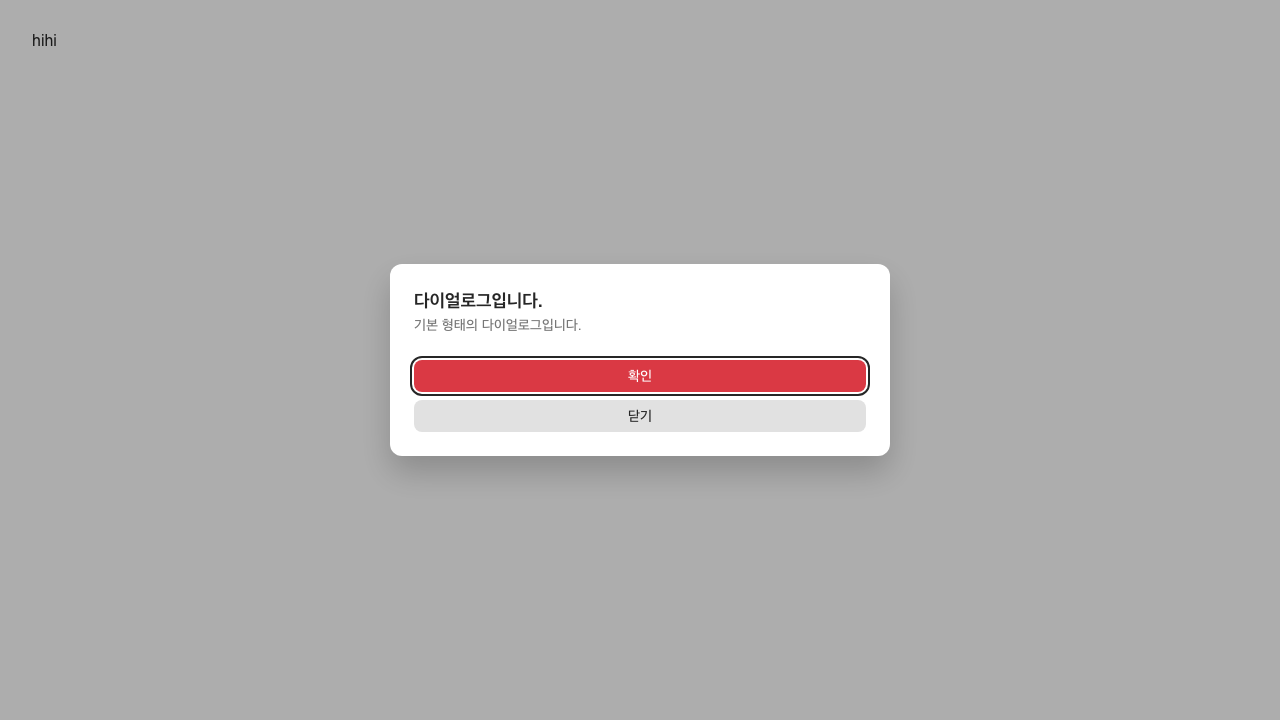
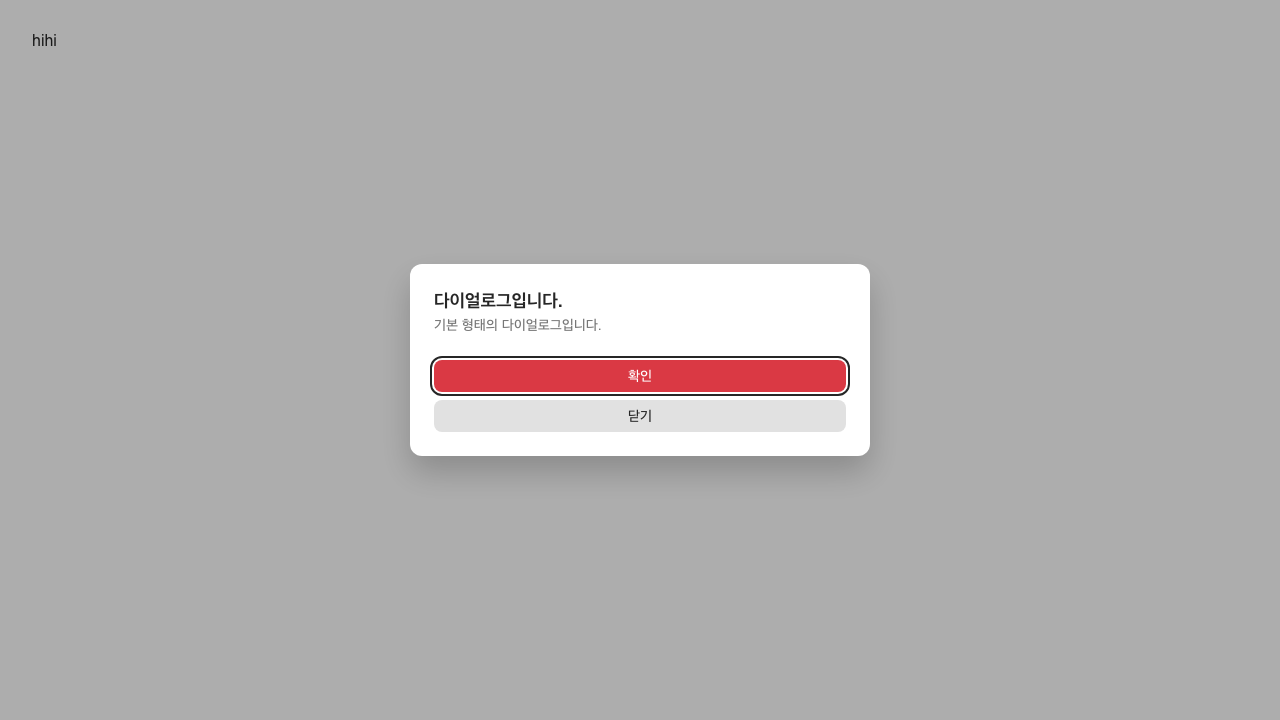
fix(alert-dialog): align popup width with design (28.75rem)
VAPOR-248

Changed region(s): [[0.2812, 0.3667, 0.4688, 0.6417], [0.6562, 0.3667, 0.7188, 0.6417]]

diff --git a/packages/core/src/components/alert-dialog/alert-dialog.css.ts b/packages/core/src/components/alert-dialog/alert-dialog.css.ts
@@ -42,7 +42,7 @@ export const popup = componentStyle({
     boxShadow: vars.shadow.xl,
 
     backgroundColor: vars.color.background['canvas-overlay'],
-    width: '31.25rem',
+    width: '28.75rem',
     maxWidth: calc.subtract('100vw', calc.multiply(SPACING, 2)),
     maxHeight: '80vh',
 

diff --git a/.changeset/alert-dialog-popup-width.md b/.changeset/alert-dialog-popup-width.md
@@ -1,0 +1,5 @@
+---
+'@vapor-ui/core': patch
+---
+
+align AlertDialog popup width with design (28.75rem)
